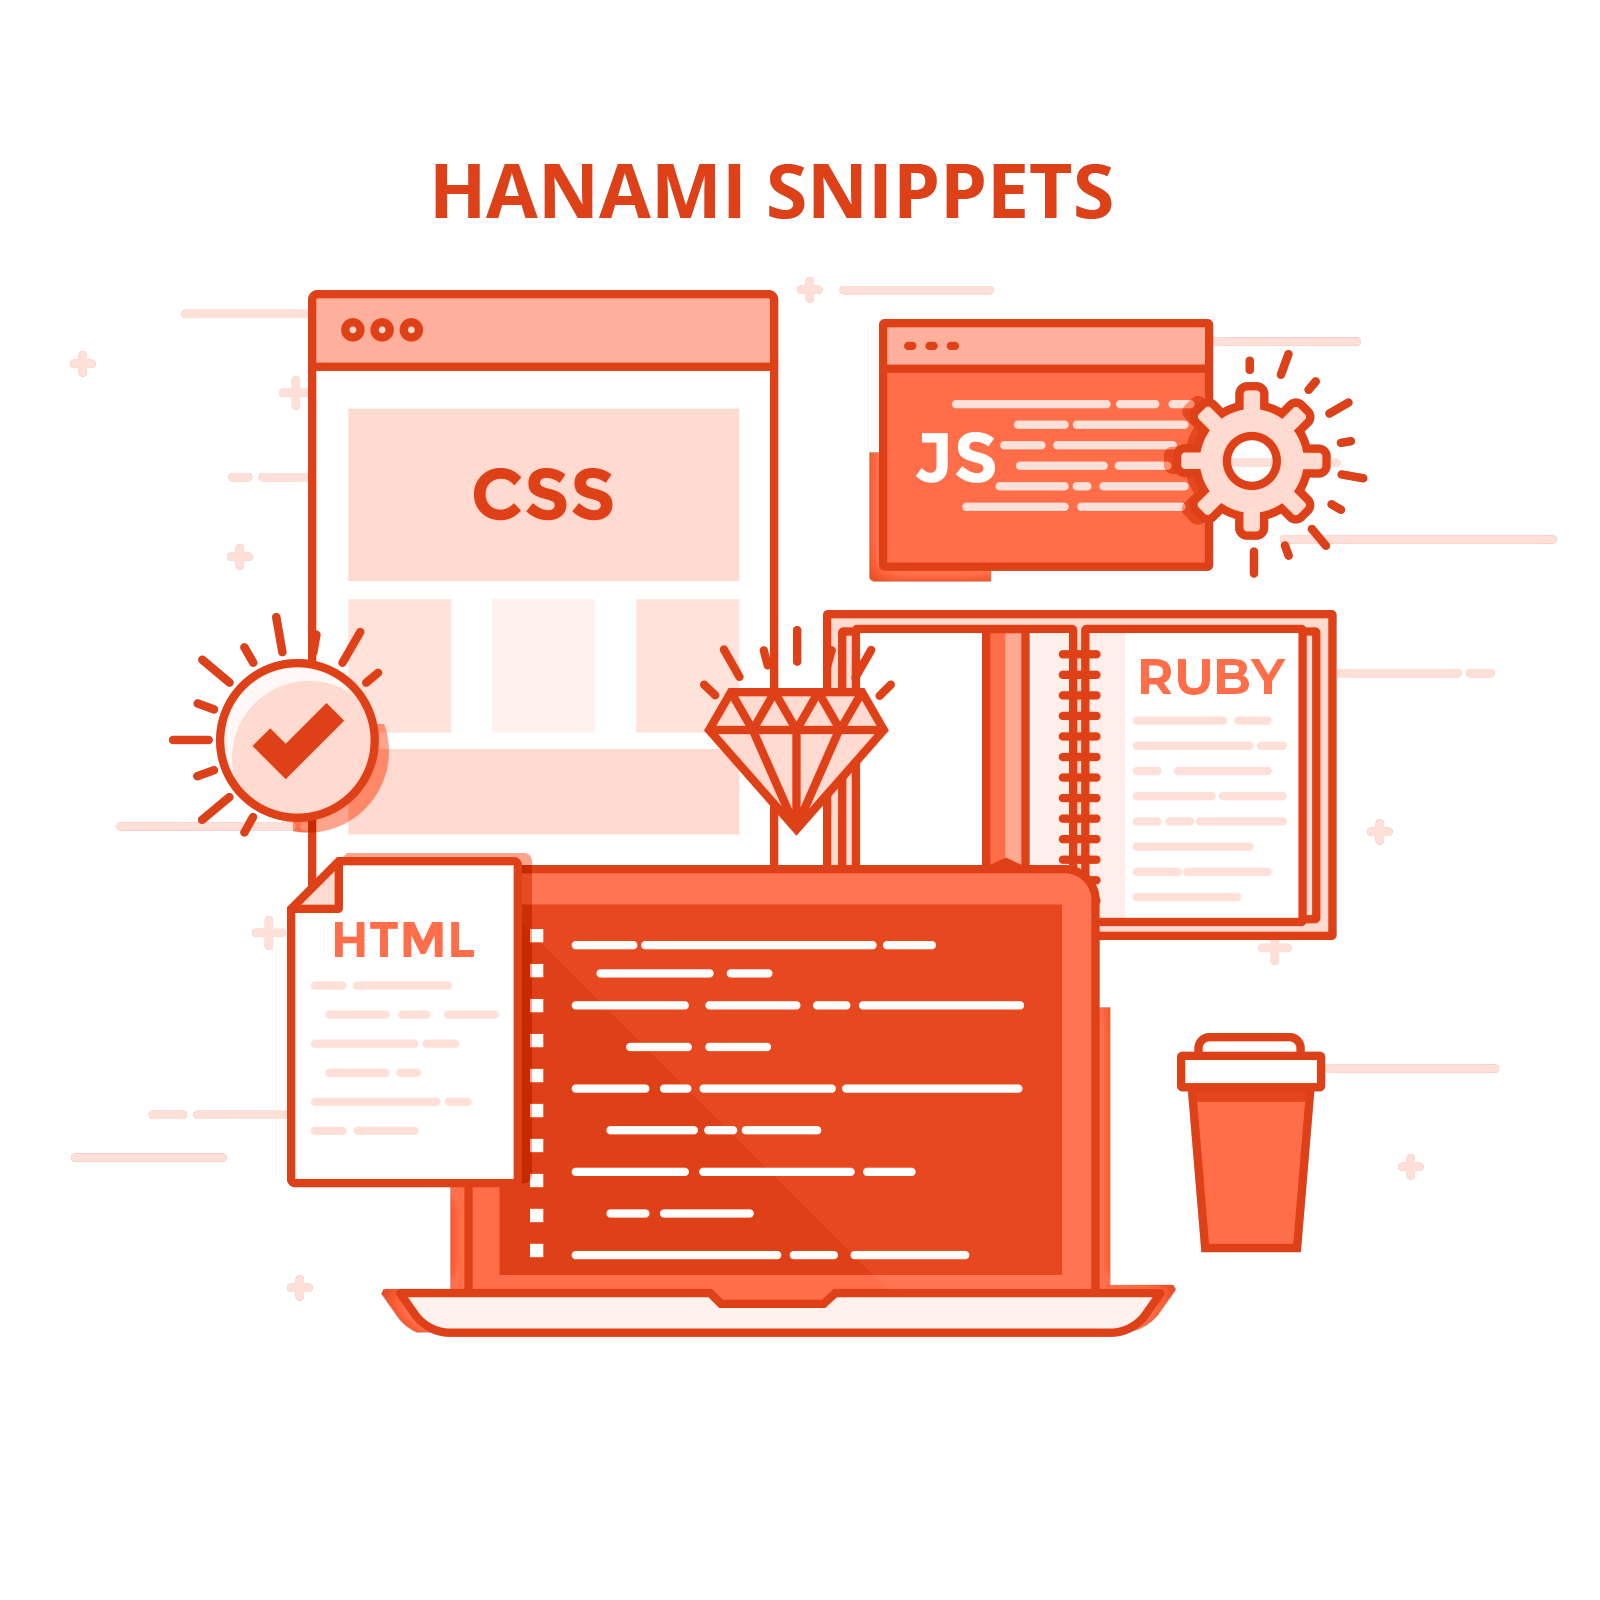
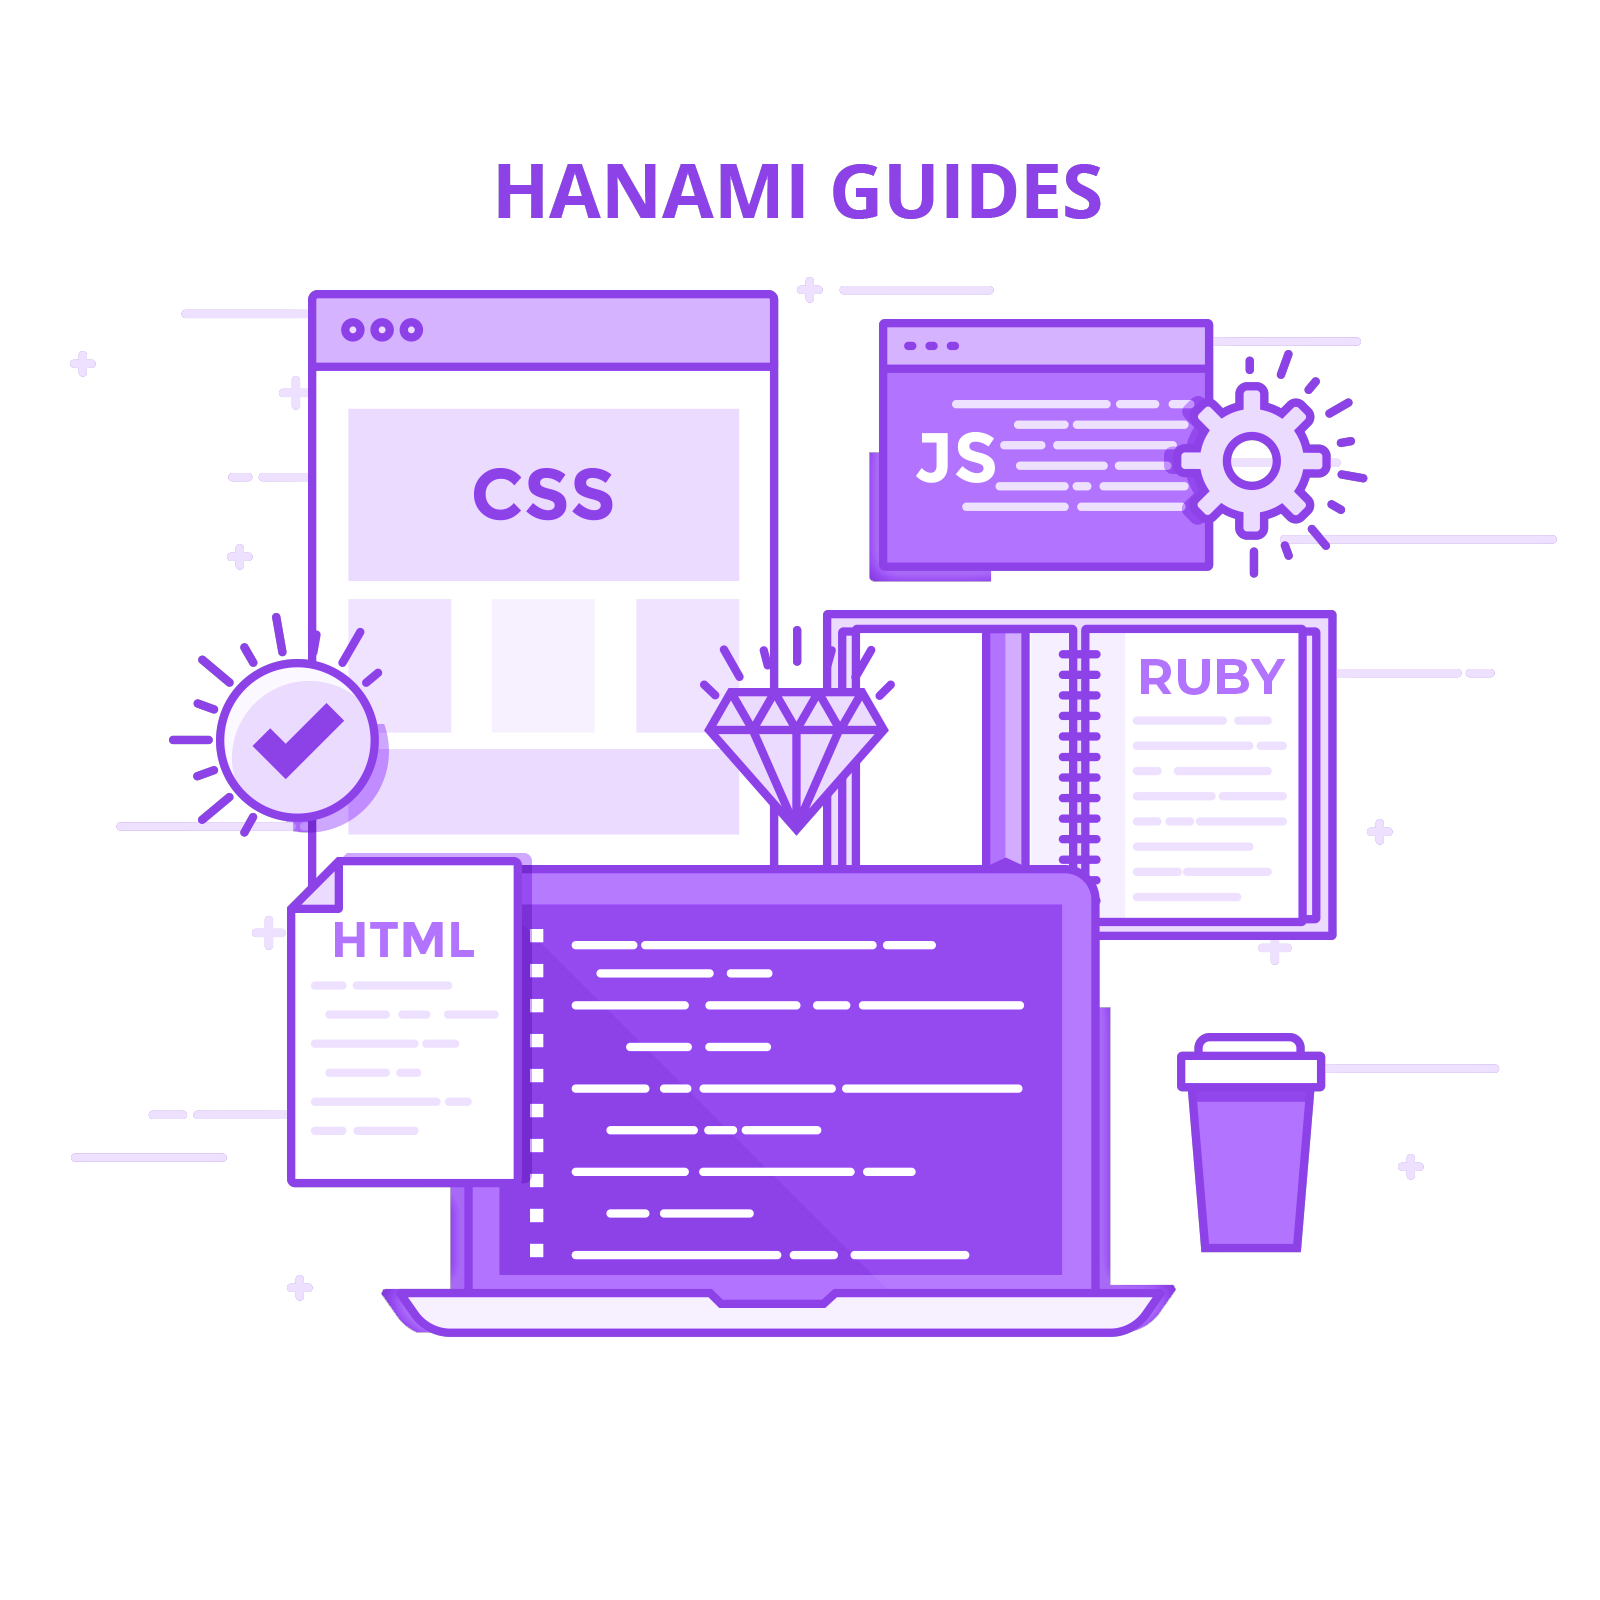
Finish landing page

diff --git a/themes/hanami/layouts/index.html b/themes/hanami/layouts/index.html
@@ -189,26 +189,48 @@
           <div class="col-md-6 order-md-1">
             <div class="pr-md-5">
               <div class="badge badge-circle badge-secondary icon icon-shape rounded-circle mb-5">
-                <i class="ni ni-settings-gear-65"></i>
+                <i class="ni ni-check-bold"></i>
               </div>
-              <h3>Learn by topic</h3>
-              <p>We have snippets for all the Hanami components:</p>
+              <h3>Learn Hanami</h3>
+              <p>Learn Hanami via our extensive guides.</p>
               <ul class="list-unstyled mt-5">
-                {{ range .Site.Params.Gems }}
-                {{ $icon := index $.Site.Params.icons . }}
                 <li class="py-2">
                   <div class="d-flex align-items-center">
                     <div>
                       <div class="badge badge-circle badge-secondary mr-3">
-                        <i class="fa {{ $icon }}"></i>
+                        <i class="ni ni-spaceship"></i>
                       </div>
                     </div>
                     <div>
-                      <h6 class="mb-0"><a href="/gems/{{ . | urlize }}"><span class="text-primary">{{ . }}</span></a></h6>
+                      <h6 class="mb-0"><a href="{{ "/introduction/getting-started" | relURL }}"><span class="text-primary">Getting started</span></a></h6>
                     </div>
                   </div>
                 </li>
-                {{ end }}
+                <li class="py-2">
+                  <div class="d-flex align-items-center">
+                    <div>
+                      <div class="badge badge-circle badge-secondary mr-3">
+                        <i class="ni ni-settings-gear-65"></i>
+                      </div>
+                    </div>
+                    <div>
+                    {{ $upgradeNotesUrl := printf "/upgrade-notes/v%s" (replace .Site.Params.hanamiversion "." "") }}
+                    <h6 class="mb-0"><a href="{{ $upgradeNotesUrl | relURL }}"><span class="text-primary">Upgrade notes</span></a></h6>
+                    </div>
+                  </div>
+                </li>
+                <li class="py-2">
+                  <div class="d-flex align-items-center">
+                    <div>
+                      <div class="badge badge-circle badge-secondary mr-3">
+                        <i class="fa fa-cloud-download"></i>
+                      </div>
+                    </div>
+                    <div>
+                      <h6 class="mb-0"><a href="/downloads" target="_blank"><span class="text-primary">Download the guides</span></a></h6>
+                    </div>
+                  </div>
+                </li>
               </ul>
             </div>
           </div>

diff --git a/themes/hanami/static/assets/css/theme.css b/themes/hanami/static/assets/css/theme.css
@@ -137,8 +137,8 @@ a.text-primary:focus
 
 .badge-secondary
 {
-    color: #FFFF9D;
-    background-color: rgba(121,189,143,.5);
+    color: #8E43E8;
+    background-color: rgba(70,232,149,.5);
 }
 .badge-secondary[href]:hover,
 .badge-secondary[href]:focus
